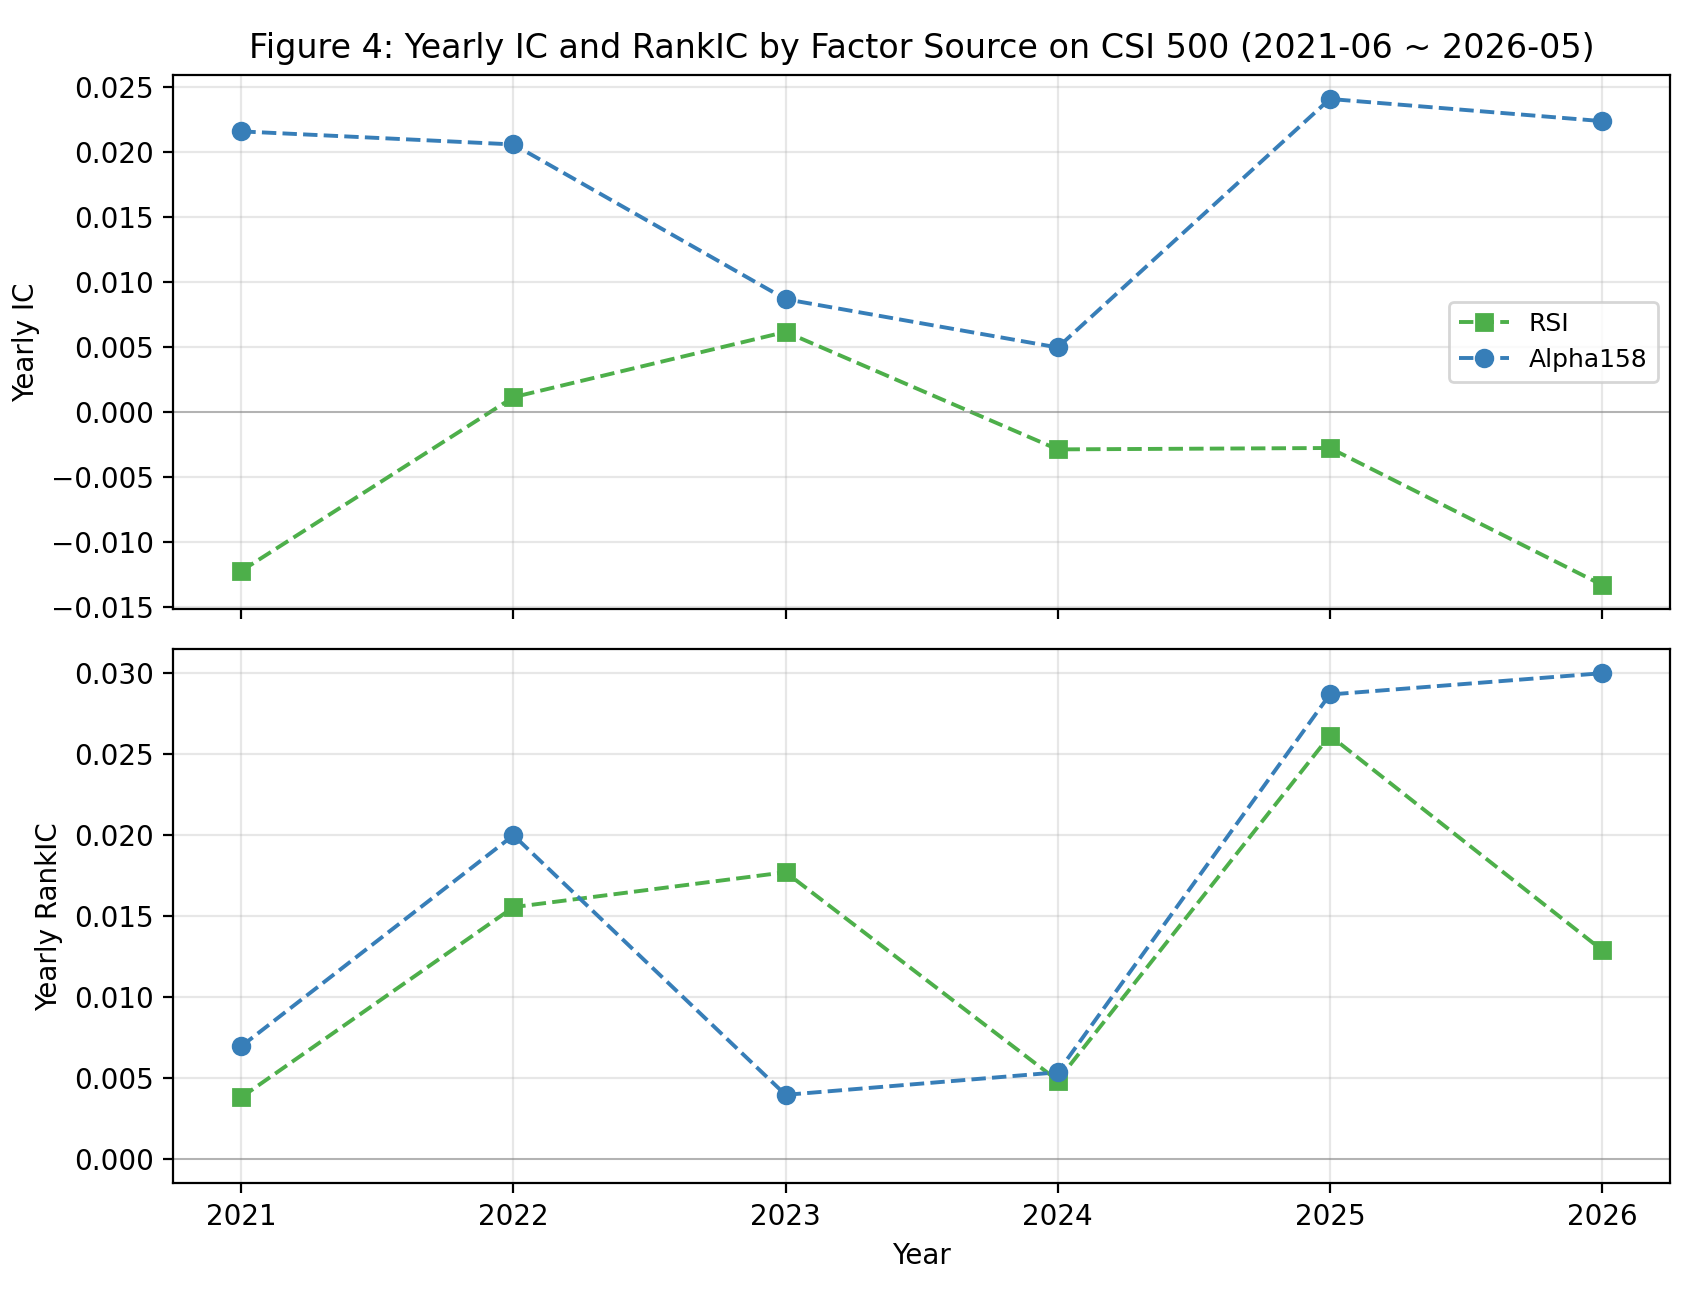
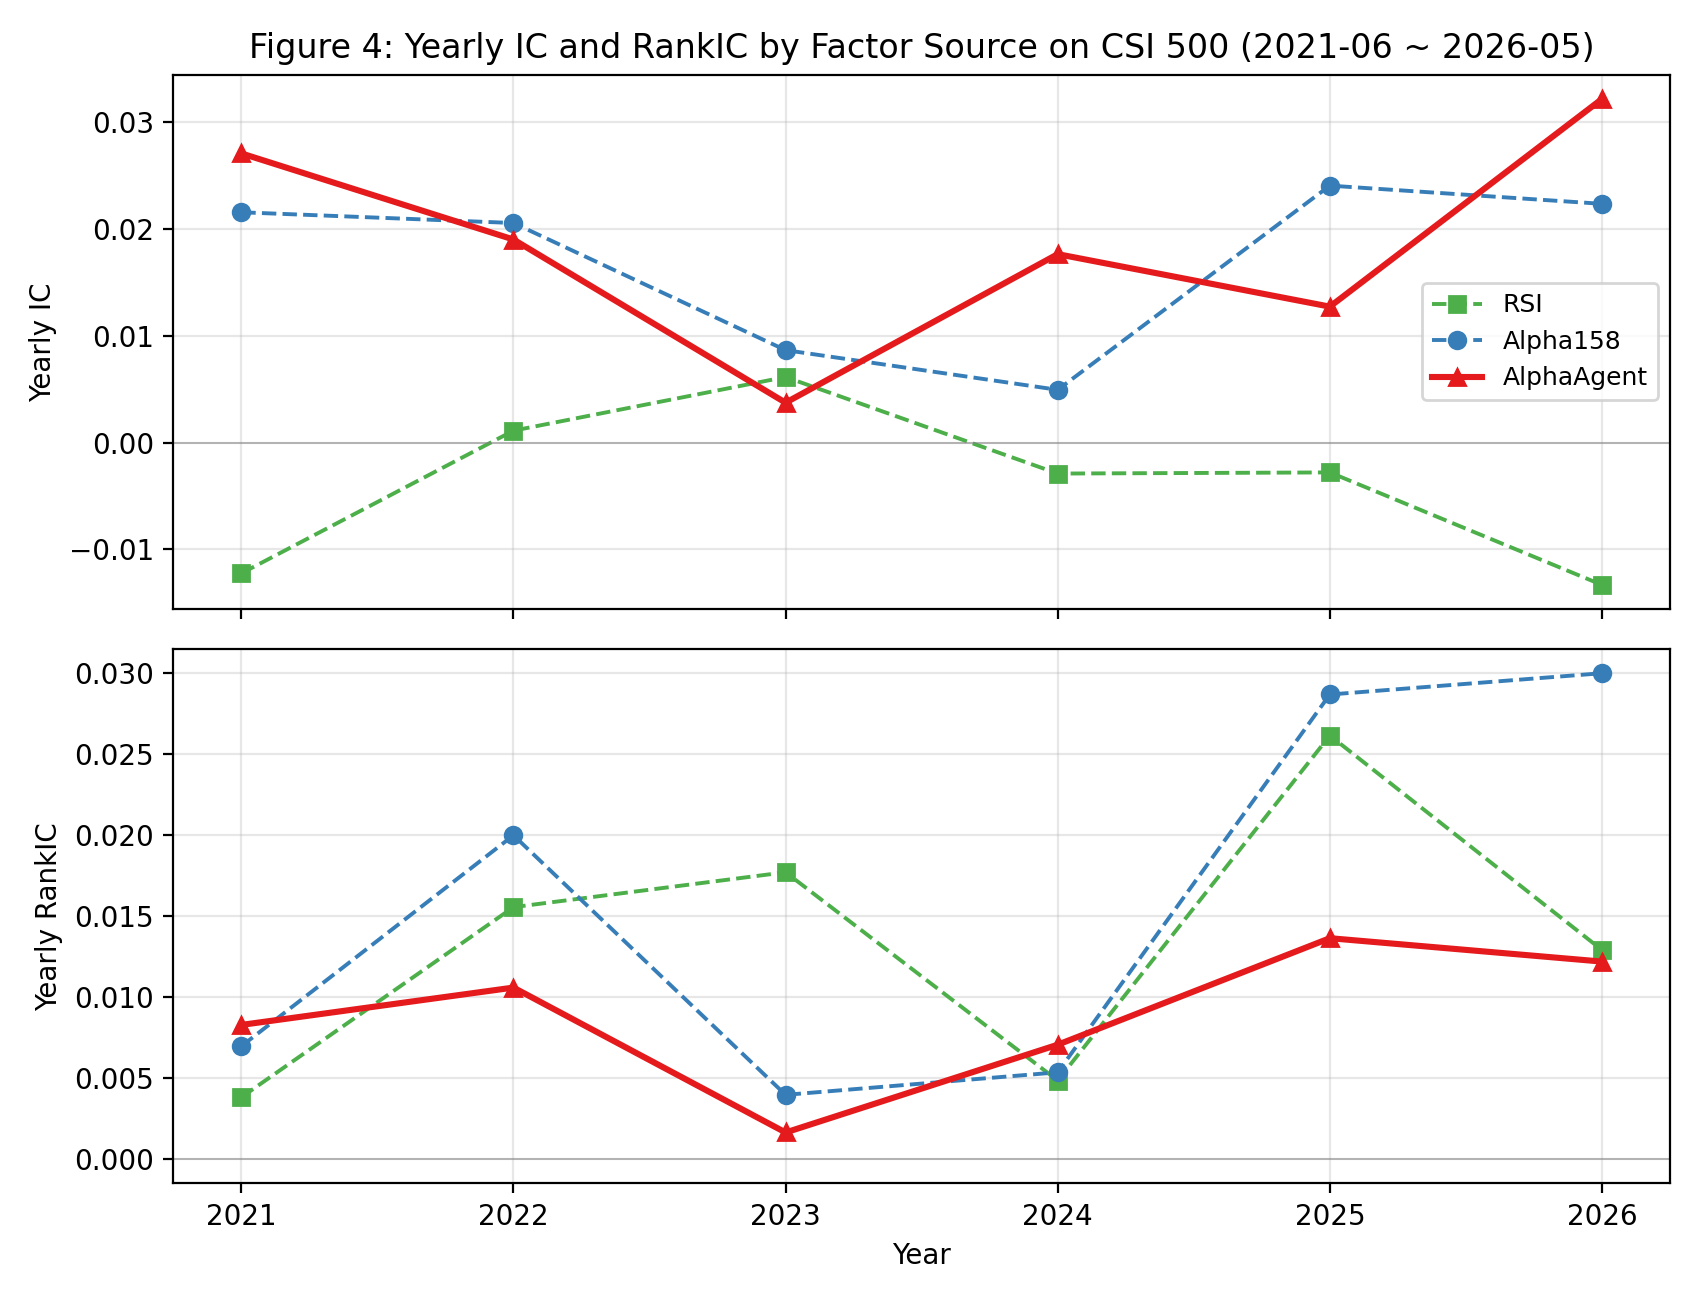
feat(figures): add AlphaAgent local-mine results to Figure 3 + 4

diff --git a/scripts/plot_figure3.py b/scripts/plot_figure3.py
@@ -28,7 +28,7 @@ METHOD_PKLS: dict[str, Path] = {
     "LightGBM":   REPO / "baselines/mlruns/209613909970893617/ea6406b82b904a8fba2832cf1290a856/artifacts/portfolio_analysis/report_normal_1day.pkl",
     # "LSTM":       REPO / "baselines/mlruns/.../report_normal_1day.pkl",
     # "Transformer":REPO / "baselines/mlruns/.../report_normal_1day.pkl",
-    # "AlphaAgent": REPO / "AlphaAgent/git_ignore_folder/.../report_normal_1day.pkl",
+    "AlphaAgent": REPO / "AlphaAgent/git_ignore_folder/RD-Agent_workspace/f1332f69e40e48f1bdbb0f9df7620854/mlruns/284224144358219592/38c38f8df6fe49ca99ddd3c22fe0f7a1/artifacts/portfolio_analysis/report_normal_1day.pkl",
     # "EliteAlpha": REPO / "...",
 }
 

diff --git a/scripts/plot_figure4.py b/scripts/plot_figure4.py
@@ -45,7 +45,7 @@ WINDOW_END = "2026-05-31"
 # Where to look for per-method pred.pkl files; missing entries are skipped.
 PRED_PATHS: dict[str, Path] = {
     "Alpha158":   REPO / "baselines/mlruns/209613909970893617/ea6406b82b904a8fba2832cf1290a856/artifacts/pred.pkl",
-    # "AlphaAgent": REPO / "AlphaAgent/git_ignore_folder/.../pred.pkl",
+    "AlphaAgent": REPO / "AlphaAgent/git_ignore_folder/RD-Agent_workspace/f1332f69e40e48f1bdbb0f9df7620854/mlruns/284224144358219592/38c38f8df6fe49ca99ddd3c22fe0f7a1/artifacts/pred.pkl",
     # "EliteAlpha": REPO / "...",
 }
 